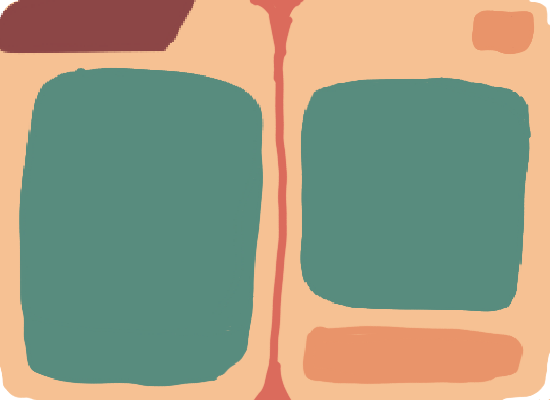
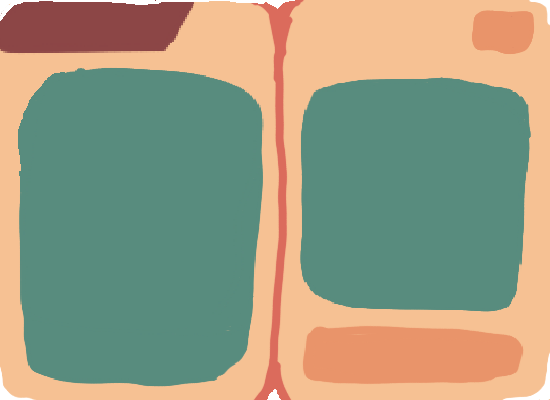
Pypad assets + writing function

diff --git a/pypad.py b/pypad.py
@@ -5,13 +5,13 @@ from pathlib import Path
 
 class Pypad:
     def __init__(self, screen):
-        image_path = Path(__file__).resolve().parent / "assets" / "pypad.png"
-        image = pygame.image.load(str(image_path)).convert_alpha()
-
-
-        self.bg = image
+        self.screen = screen
         self.visible = False
-        self.screen=screen
+        self.code_str = ""
+        self.bar = {"is_shown":False, "timer":0}
+
+        assets = Path(__file__).resolve().parent / "assets"
+        self.bg = pygame.image.load(str(assets / "pypad.png")).convert_alpha()
 
         self.panel = pygame.Rect(0, 0, 550, 400)
         self.panel.center = screen.get_rect().center
@@ -19,15 +19,24 @@ class Pypad:
         self.close_button = pygame.Rect(0, 0, 60, 40)
         self.close_button.midbottom = (self.panel.x + 505, self.panel.y + 50)
 
+        self.code_rect = pygame.Rect(0, 0, 200, 275)
+        self.code_rect.midbottom = (self.panel.x + 134, self.panel.y + 357)
 
         font_path = Path(__file__).resolve().parent / "assets" / "PixelFont.ttf"
         font = pygame.font.Font(str(font_path), 24)
         font.set_bold(True)
+        font_code = pygame.font.Font(str(font_path), 16)
         self.title = font.render("PyPad", True, (255, 255, 255))
         self.close_text = font.render("X", True, (255, 255, 255))
+    #    self.test_code_test = font.render("Test Code", True, (255, 255, 255))
+        self.code_font = font_code
+
+        self.title_rect = self.title.get_rect(center=(self.panel.x + 85, self.panel.y + 25))
 
         self.overlay = pygame.Surface(screen.get_size(), pygame.SRCALPHA)
         self.overlay.fill((0, 0, 0, 150))
+
+
 
     def open(self):
         self.visible = True
@@ -35,23 +44,60 @@ class Pypad:
     def close(self):
         self.visible = False
 
+    def update_code_screen(self, event):
+        if event.key == pygame.K_BACKSPACE:
+            self.code_str = self.code_str[:-1]
+        elif event.key in (pygame.K_RETURN, pygame.K_KP_ENTER):
+            self.code_str += "\n"
+        elif event.unicode.isprintable():
+            self.code_str += event.unicode
+        
+
     def handle_event(self, event):
         if event.type == pygame.KEYDOWN and event.key == pygame.K_ESCAPE:
             self.close()
         elif event.type == pygame.MOUSEBUTTONDOWN and event.button == 1:
             if self.close_button.collidepoint(event.pos):
                 self.close()
+        elif event.type == pygame.KEYDOWN:
+            self.update_code_screen(event)
 
     def draw(self):
         if not self.visible:
             return
 
+        #main asset
         self.screen.blit(self.overlay, (0, 0))
         self.screen.blit(self.bg, self.panel.topleft)
-        title_rect = self.title.get_rect(center=(self.panel.x + 85, self.panel.y + 25))
-        self.screen.blit(self.title, title_rect)
+
+        #pypad component
+        self.screen.blit(self.title, self.title_rect)
 
         self.screen.blit(self.close_text, self.close_text.get_rect(center=self.close_button.center))
+
+        previous_clip = self.screen.get_clip()
+        self.screen.set_clip(previous_clip.clip(self.code_rect))
+
+        x = self.code_rect.left + 6
+        y = self.code_rect.top + 6
+
+        self.bar["timer"]+=1
+        if self.bar["timer"] == 10:
+            self.bar["timer"]=0
+            self.bar["is_shown"] = not self.bar["is_shown"]
+     
+
+        for idx, line in enumerate(self.code_str.split("\n")):
+            if idx == len(self.code_str.split("\n")) - 1 and self.bar["is_shown"]:
+                line+='|'
+            text = self.code_font.render(line, True, (255, 255, 255))
+            self.screen.blit(text, (x, y))
+            y += self.code_font.get_linesize()
+        
+        
+
+
+        self.screen.set_clip(previous_clip)
 
 
 if __name__=='__main__':

diff --git a/game.py b/game.py
@@ -13,7 +13,6 @@ class Game:
 
         # loading pypad
         self.pypad = Pypad(self.screen)
-        self.pypad.open()
 
         #charger la carte
         tmx_data = pytmx.util_pygame.load_pygame('carte.tmx')
@@ -81,6 +80,7 @@ class Game:
                     self.pypad.handle_event(event)
                 elif event.type == pygame.KEYDOWN and event.key == pygame.K_e:
                     self.pypad.open()
+                
             clock.tick(60)
         pygame.quit()
 
